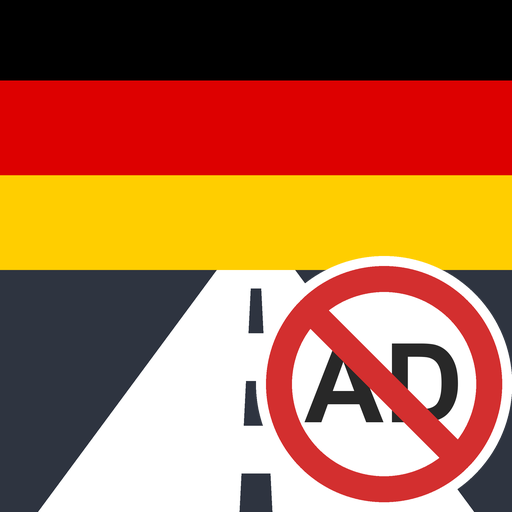
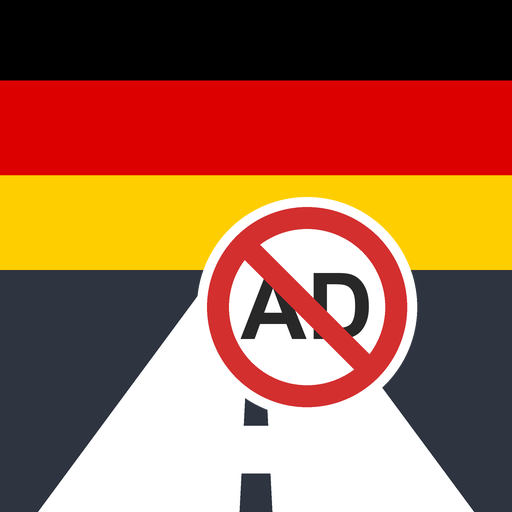
Ikona Bez reklama: znak bliže sredini, da ostane ceo kad Play iseče ikonu u šestougao
Claude-Session: https://claude.ai/code/session_012mNDwUHcVnz5RcmkDfQvn6

Changed region(s): [[0.375, 0.375, 1.0, 1.0]]

diff --git a/alati/ikona_bez_reklama.py b/alati/ikona_bez_reklama.py
@@ -13,23 +13,23 @@ izlaz = sys.argv[2] if len(sys.argv) > 2 else 'play/ikona_bez_reklama_512.png'
 S = 512
 ik = Image.open(ulaz).convert('RGBA').resize((S, S), Image.LANCZOS)
 
-# znak dole desno: beli krug, crveni prsten, "AD", crvena kosa crta
+# znak desno od sredine (ceo ostaje i kad Play iseče ikonu u šestougao): beli krug, crveni prsten, "AD", crvena kosa crta
 K = 4  # crta se u većoj rezoluciji pa umanjuje (glatke ivice)
-R = 118 * K
-cx, cy = (S - 128) * K, (S - 128) * K
+R = 100 * K
+cx, cy = int(S * 0.60) * K, int(S * 0.60) * K   # Play iseca ikonu (šestougao, krug): znak mora biti blizu sredine
 sloj = Image.new('RGBA', (S * K, S * K), (0, 0, 0, 0))
 d = ImageDraw.Draw(sloj)
 crvena = (211, 47, 47, 255)
 d.ellipse((cx - R - 10 * K, cy - R - 10 * K, cx + R + 10 * K, cy + R + 10 * K), fill=(255, 255, 255, 255))
-d.ellipse((cx - R, cy - R, cx + R, cy + R), fill=(255, 255, 255, 255), outline=crvena, width=26 * K)
+d.ellipse((cx - R, cy - R, cx + R, cy + R), fill=(255, 255, 255, 255), outline=crvena, width=22 * K)
 font = None
 for f in ('C:/Windows/Fonts/arialbd.ttf', 'C:/Windows/Fonts/segoeuib.ttf'):
     if os.path.exists(f):
-        font = ImageFont.truetype(f, 110 * K)
+        font = ImageFont.truetype(f, 92 * K)
         break
 d.text((cx, cy), 'AD', fill=(40, 40, 40, 255), font=font, anchor='mm')
 o = int(R * 0.70)
-d.line((cx - o, cy - o, cx + o, cy + o), fill=crvena, width=26 * K)
+d.line((cx - o, cy - o, cx + o, cy + o), fill=crvena, width=22 * K)
 sloj = sloj.resize((S, S), Image.LANCZOS)
 
 out = Image.alpha_composite(ik, sloj).convert('RGB')
